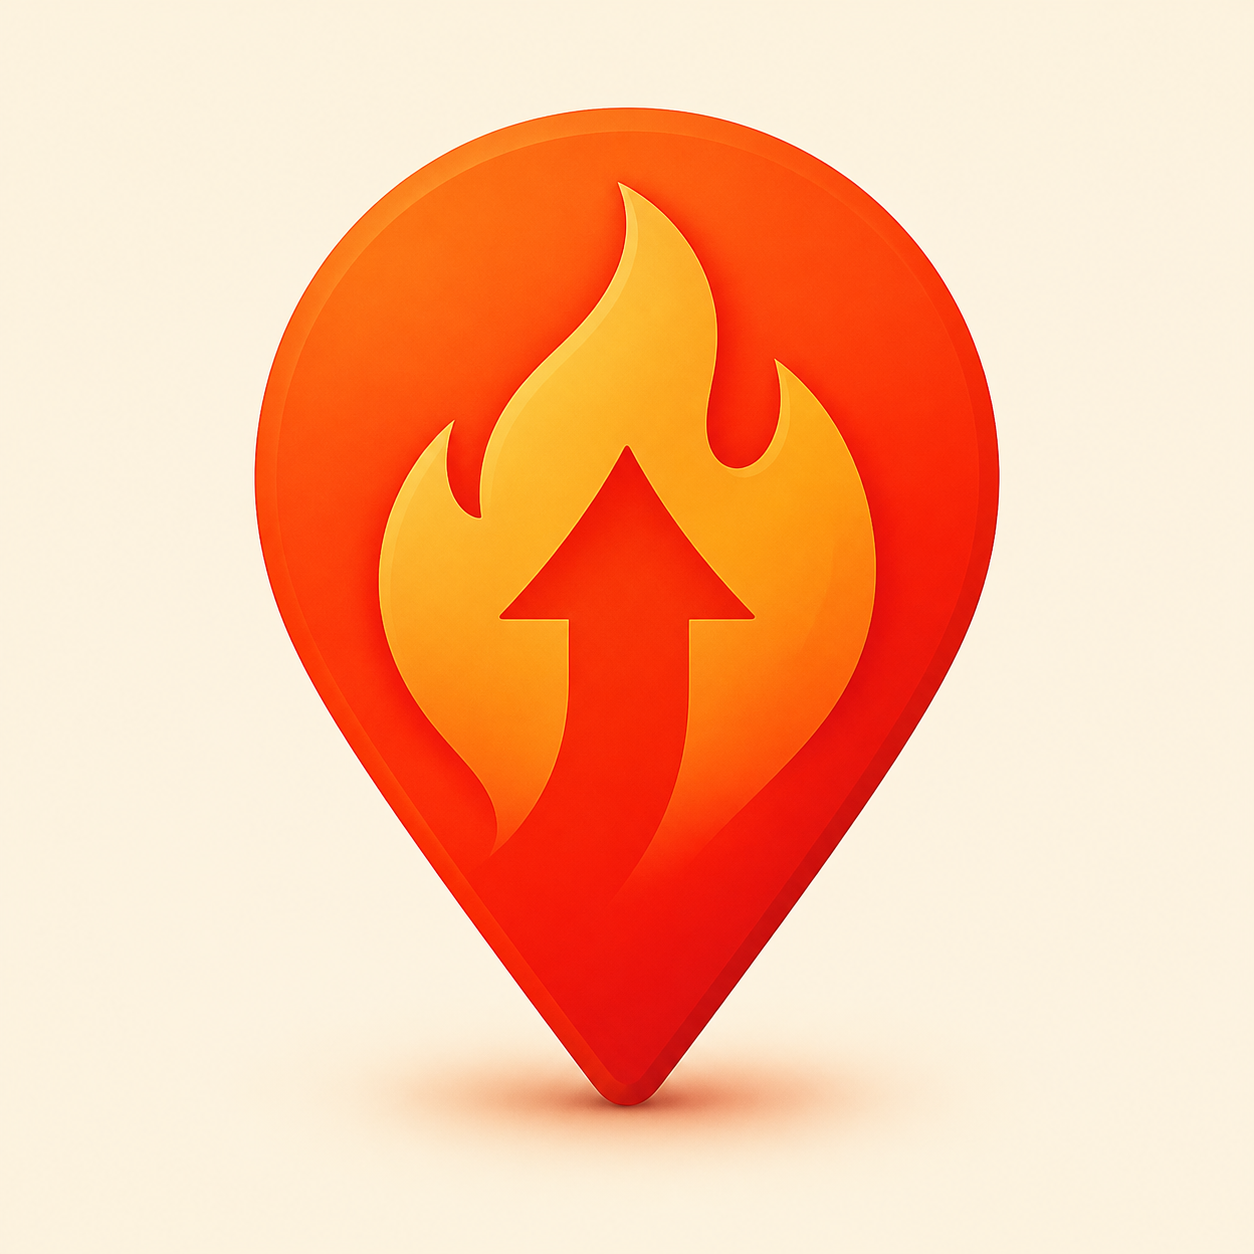
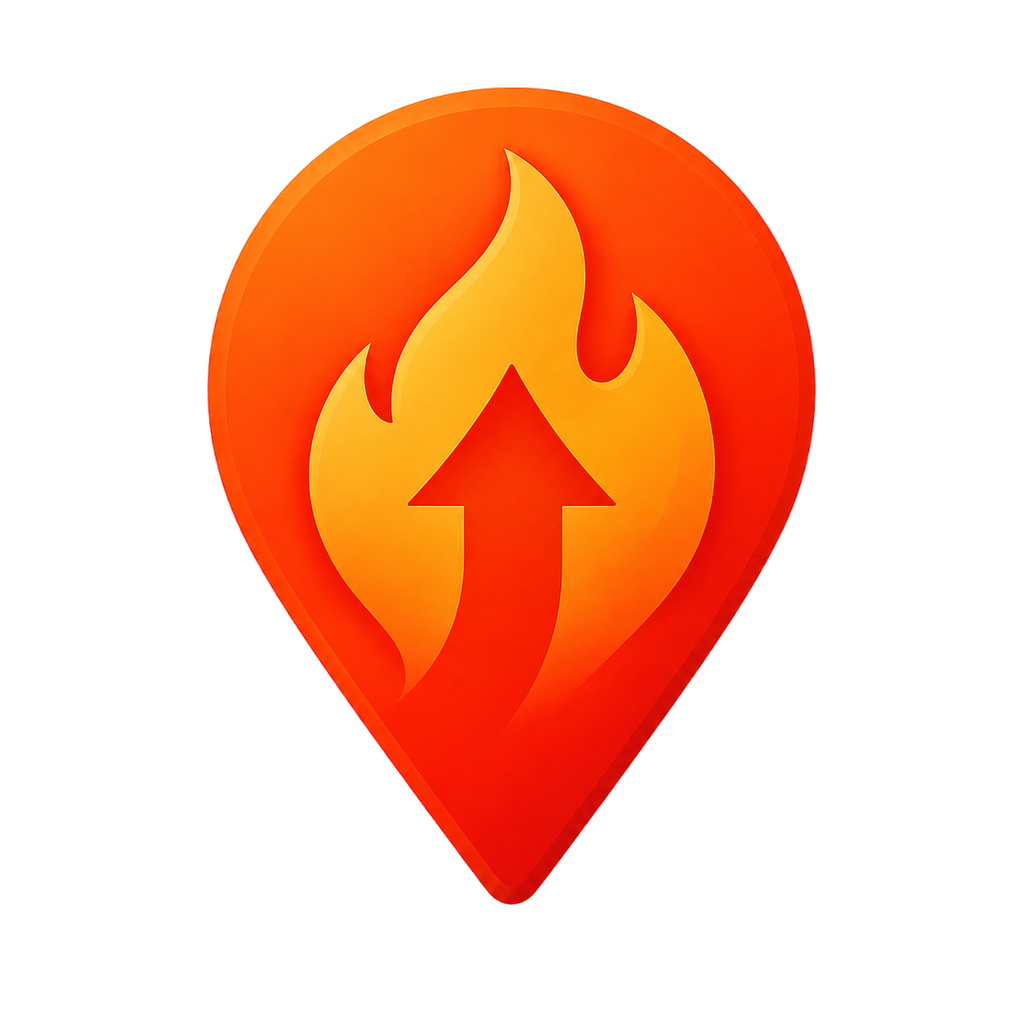
Make generated marker assets transparent

diff --git a/apps/web/tests-unit/marker-assets-provenance.test.ts b/apps/web/tests-unit/marker-assets-provenance.test.ts
@@ -2,6 +2,7 @@ import { describe, expect, test } from 'bun:test';
 import { existsSync, readFileSync } from 'node:fs';
 import { createHash } from 'node:crypto';
 import { join } from 'node:path';
+import sharp from 'sharp';
 
 const publicRoot = join(import.meta.dir, '..', 'public');
 
@@ -11,8 +12,43 @@ function sha256(relativePublicPath: string) {
     .digest('hex');
 }
 
+async function readAlphaStats(relativePublicPath: string) {
+  const { data, info } = await sharp(join(publicRoot, relativePublicPath.replace(/^\//, '')))
+    .ensureAlpha()
+    .raw()
+    .toBuffer({ resolveWithObject: true });
+  let transparentPixels = 0;
+  let semiTransparentPixels = 0;
+  let opaquePixels = 0;
+  for (let index = 3; index < data.length; index += 4) {
+    const alpha = data[index];
+    if (alpha === 0) {
+      transparentPixels += 1;
+    } else if (alpha === 255) {
+      opaquePixels += 1;
+    } else {
+      semiTransparentPixels += 1;
+    }
+  }
+  const alphaAt = (x: number, y: number) => data[(y * info.width + x) * 4 + 3];
+  return {
+    width: info.width,
+    height: info.height,
+    transparentPixels,
+    semiTransparentPixels,
+    opaquePixels,
+    cornerAlpha: [
+      alphaAt(0, 0),
+      alphaAt(info.width - 1, 0),
+      alphaAt(0, info.height - 1),
+      alphaAt(info.width - 1, info.height - 1),
+      alphaAt(Math.floor(info.width / 2), 0),
+    ],
+  };
+}
+
 describe('marker GPT Image 2 asset provenance', () => {
-  test('commits exact local-codex gpt-image-2 marker assets with hash readback', () => {
+  test('commits exact local-codex gpt-image-2 marker assets with transparent cutout hash readback', async () => {
     const manifestPath = join(publicRoot, 'images/maker-images/marker-assets-provenance.json');
     const manifest = JSON.parse(readFileSync(manifestPath, 'utf8')) as {
       providerId: string;
@@ -30,6 +66,31 @@ describe('marker GPT Image 2 asset provenance', () => {
         responseHash: string;
         png: { path: string; sha256: string };
         webp: { path: string; sha256: string };
+        transparentEdit: {
+          providerId: string;
+          authMode: string;
+          requestToolModel: string;
+          model: string;
+          modelProvenance: string;
+          operation: string;
+          responseId: string;
+          imageCallId: string;
+          requestHash: string;
+          responseHash: string;
+          rawGeneratedSha256: string;
+          alphaExtraction: {
+            method: string;
+            source: string;
+            stats: {
+              width: number;
+              height: number;
+              transparentPixels: number;
+              semiTransparentPixels: number;
+              opaquePixels: number;
+              cornerAlpha: number[];
+            };
+          };
+        };
       }>;
     };
 
@@ -57,6 +118,31 @@ describe('marker GPT Image 2 asset provenance', () => {
       expect(existsSync(join(publicRoot, asset.webp.path.replace(/^\//, '')))).toBe(true);
       expect(sha256(asset.png.path)).toBe(asset.png.sha256);
       expect(sha256(asset.webp.path)).toBe(asset.webp.sha256);
+      expect(asset.transparentEdit).toMatchObject({
+        providerId: 'local-codex',
+        authMode: 'codex_oauth',
+        requestToolModel: 'gpt-image-2',
+        model: 'gpt-image-2',
+        modelProvenance: 'exact',
+        operation: 'background-removal-edit-plus-deterministic-alpha-extraction',
+      });
+      expect(asset.transparentEdit.responseId).toHaveLength(36);
+      expect(asset.transparentEdit.imageCallId).toStartWith('ig_');
+      expect(asset.transparentEdit.requestHash).toHaveLength(64);
+      expect(asset.transparentEdit.responseHash).toHaveLength(64);
+      expect(asset.transparentEdit.rawGeneratedSha256).toHaveLength(64);
+
+      const pngAlpha = await readAlphaStats(asset.png.path);
+      const webpAlpha = await readAlphaStats(asset.webp.path);
+      for (const alphaStats of [pngAlpha, webpAlpha]) {
+        expect(alphaStats.width).toBe(1024);
+        expect(alphaStats.height).toBe(1024);
+        expect(alphaStats.cornerAlpha).toEqual([0, 0, 0, 0, 0]);
+        expect(alphaStats.transparentPixels).toBeGreaterThan(600_000);
+        expect(alphaStats.opaquePixels).toBeGreaterThan(300_000);
+      }
+      expect(asset.transparentEdit.alphaExtraction.stats.cornerAlpha).toEqual([0, 0, 0, 0, 0]);
+      expect(asset.transparentEdit.alphaExtraction.stats.transparentPixels).toBeGreaterThan(600_000);
     }
   });
 });
